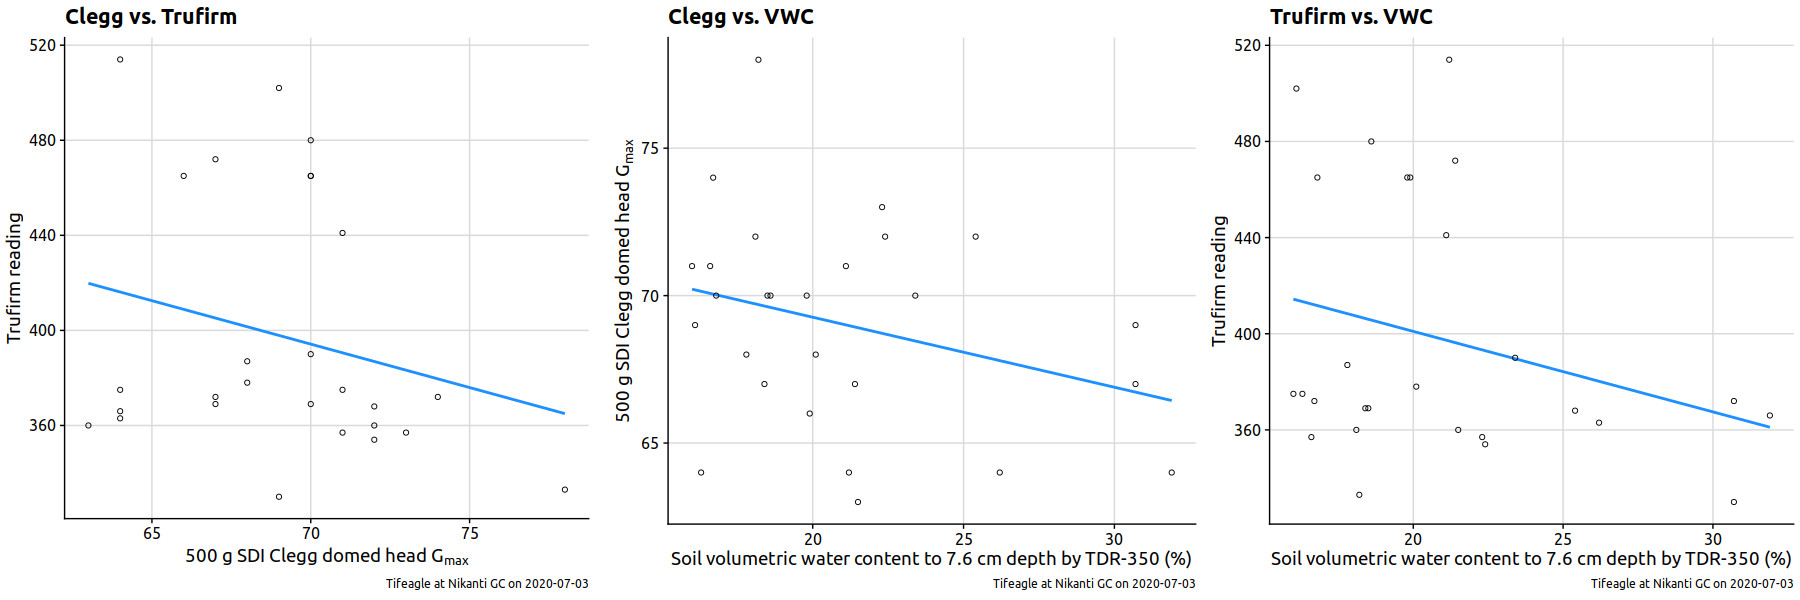
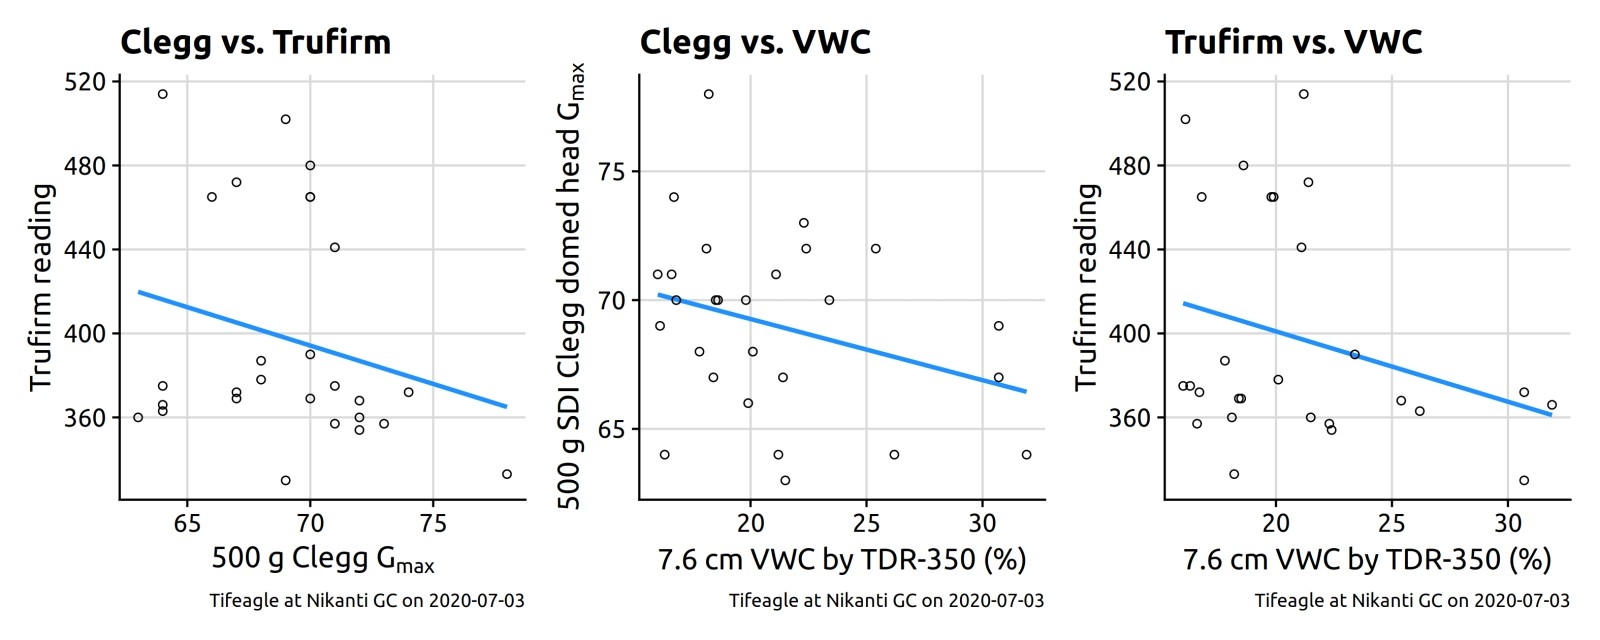
added links and upsized chart panel

diff --git a/_posts/2020-08-01-numerical-notes-nikanti.md b/_posts/2020-08-01-numerical-notes-nikanti.md
@@ -8,6 +8,8 @@ tags: [thailand, om246, organic matter, firmness, playability, surface hardness,
 I spent a morning with [Brad Revill](https://twitter.com/brad_revill) at [Nikanti GC](https://www.nikantigolfclub.com/) last month. I wanted to see the course, get some measurements, see the clipping volume measurement, and talk about turf management with Brad. Check out his [blog](https://brtagronomy.com/) for information about the innovative techniques he's been using.
 
 ![nikanti golf club near Bangkok hole 2](/img/nikanti_2.jpg)
+<small><strong>The 2<sup>nd</sup> green at Nikanti GC in Thailand.</strong></small>
+
 
 I've now had a chance to work through some of the measurements made that day, and the best way I can think to explain them is in a list of numerical notes.
 
@@ -78,6 +80,16 @@ A lot more. I was impressed at all the birds I saw and heard in just a few hours
 ![birds at Nikanti](/img/birds_nikanti.jpg)
 
 These reeds are full of [golden weaver nests](https://twitter.com/asianturfgrass/status/1113232486815768576). And there are a couple openbills on the other side of the pond.
+
+---
+
+For more about turf management at Nikanti, see:
+
+*[MLSN at Nikanti](https://brtagronomy.com/goingagainstthegrain/23/5/2017/mlsn-nikanti-gc-reducing-expenses-and-inputs-since-2016)
+
+* [Course renovations at Nikanti GC](https://brtagronomy.com/goingagainstthegrain/25/4/2018/2018-course-renovations-nikanti-golf-club)
+
+* [Understanding organic matter testing](https://brtagronomy.com/goingagainstthegrain/4/2/2019/understanding-organic-matter-testing)
 
 
 
